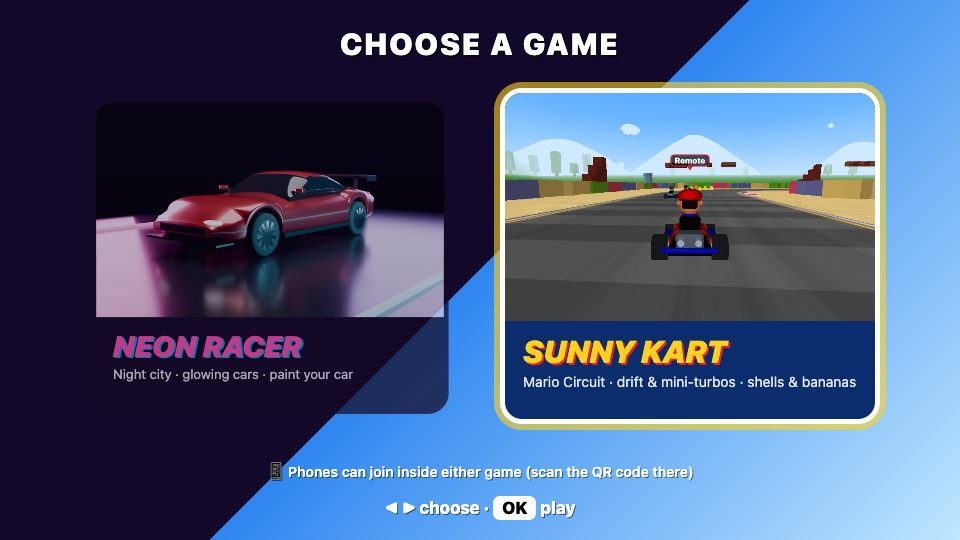
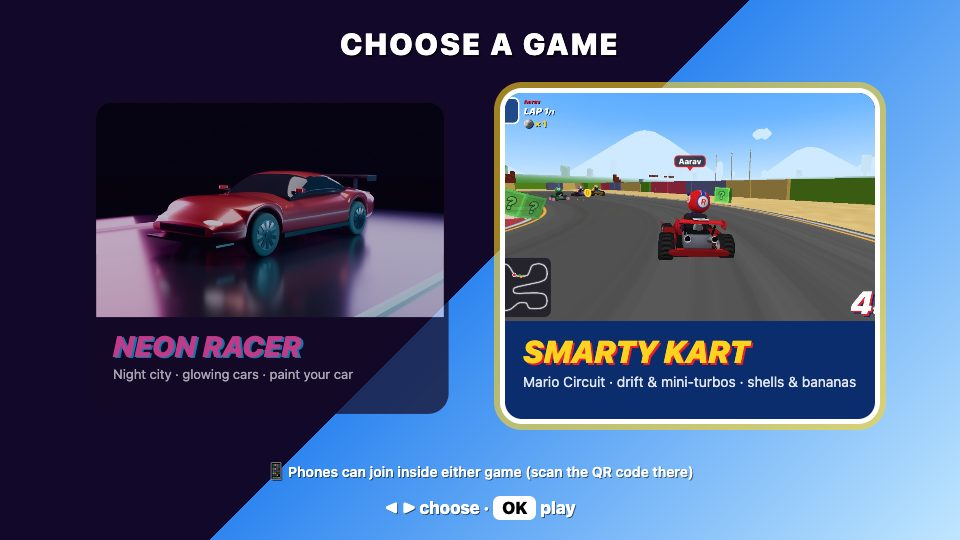
Rename Sunny Kart to Smarty Kart (titles, phone, docs, announcer line); /smarty alias; new start-screen art

diff --git a/public/js/controller.js b/public/js/controller.js
@@ -6,7 +6,7 @@ import { RACERS, RACER_IDS, BODIES, WHEELS, BODY_IDS, WHEEL_IDS, KPAINTS, saniti
 const $ = (id) => document.getElementById(id);
 const SLOT_PAINTS = ['#ff2d95', '#00b8ff', '#ffcc00', '#7dff2b'];
 const ITEM_ICONS = { rocket: '🚀', star: '⭐', magnet: '🧲', banana: '🍌', orb: '🟢', homing: '🔴', boost: '⚡', coins: '🪙', horn: '📯',
-  green: '🟢', red: '🔴', mushroom: '🍄', bullet: '🚀', coin: '🪙' };   // second row: Sunny Kart items
+  green: '🟢', red: '🔴', mushroom: '🍄', bullet: '🚀', coin: '🪙' };   // second row: Smarty Kart items
 const ITEM_NAMES = { rocket: 'ROCKET!', star: 'STAR POWER!', magnet: 'COIN MAGNET!', banana: 'BANANA!', orb: 'BOUNCY ORB!', homing: 'HOMING ORB!', boost: 'BOOST!', coins: '+3 COINS!', horn: 'HORN BLAST!',
   green: 'GREEN SHELL!', red: 'RED SHELL!', mushroom: 'MUSHROOM!', bullet: 'BULLET!', coin: '+2 COINS!' };
 const TIER_NAMES = ['', 'MINI-TURBO', 'SUPER TURBO', 'ULTRA TURBO'], TIER_COLORS = ['', '#4a8cff', '#ff8a1a', '#d24dff'];
@@ -22,13 +22,13 @@ try { savedCfg = JSON.parse(localStorage.getItem('nr_cfg') || 'null'); } catch {
 let cfg = sanitizeCfg(savedCfg || DEFAULT_CFG);
 // which game the TV is running ('neon' | 'sunny' | 'menu'); the TV says so in every state message
 let game = 'neon';
-// Sunny Kart kart: racer + body + wheels + colour (racer null until chosen or given by the TV)
+// Smarty Kart kart: racer + body + wheels + colour (racer null until chosen or given by the TV)
 let kart = (() => { try { return JSON.parse(localStorage.getItem('nr_kart') || 'null'); } catch { return null; } })();
 kart = kart ? sanitizeKart(kart) : null;
 if (!kart && RACERS[localStorage.getItem('nr_racer')]) kart = sanitizeKart({ racer: localStorage.getItem('nr_racer') });
 let stab = 'racer', kpreview = null;
 const saveKart = () => localStorage.setItem('nr_kart', JSON.stringify(kart));
-let others = [];   // racers other players have (Sunny Kart lobby)
+let others = [];   // racers other players have (Smarty Kart lobby)
 
 const input = { s: 0, g: 0, b: 0, n: 0, i: 0 };
 const held = { left: new Set(), right: new Set(), gas: new Set(), brake: new Set(), nitro: new Set(), item: new Set() };
@@ -278,7 +278,7 @@ function onHud(m) {
   $('hCoins').textContent = `🪙 ${m.coins}`;
   $('nfill').style.height = Math.round(m.nitro * 100) + '%';
   $('hItem').textContent = m.item === 'roll' ? '🎲' : (m.item ? ITEM_ICONS[m.item] + (m.n > 1 ? '×' + m.n : '') : '');
-  if (game !== 'sunny') {   // Sunny Kart has its own ITEM and DRIFT buttons
+  if (game !== 'sunny') {   // Smarty Kart has its own ITEM and DRIFT buttons
     // items fire by themselves ~0.8 s after they arrive (one at a time for ×3 items)
     if (m.item && m.item !== 'roll' && !m.fin && !autoItemT) autoItemT = setTimeout(() => { autoItemT = 0; autoPress('item', 0); }, 800);
     // boost fires by itself when the bar is full, and runs until it's empty
@@ -309,7 +309,7 @@ function saveCfg(send = true) {
   renderGarage();
   if (send) sendGarage();
 }
-// one garage message for both games: Neon Racer reads its car fields, Sunny Kart reads racer/body/wheels/kpaint
+// one garage message for both games: Neon Racer reads its car fields, Smarty Kart reads racer/body/wheels/kpaint
 function sendGarage() { sendRaw({ t: 'garage', cfg: { ...cfg, ...(kart || {}) } }); }
 function setKart(change) {
   kart = sanitizeKart({ ...(kart || { racer: 'ruby' }), ...change });
@@ -336,7 +336,7 @@ function setGame(g) {
   game = g;
   document.body.classList.toggle('sunny', g === 'sunny');
   document.body.classList.toggle('menu', g === 'menu');
-  document.title = g === 'sunny' ? 'Sunny Kart – Controller' : 'Neon Racer – Controller';
+  document.title = g === 'sunny' ? 'Smarty Kart – Controller' : 'Neon Racer – Controller';
   setItem(null); setThemeColor();
   if ($('garage').classList.contains('on')) showGarage(true);
 }

diff --git a/public/menu.html b/public/menu.html
@@ -4,7 +4,7 @@
 <meta charset="utf-8">
 <meta name="viewport" content="width=device-width, initial-scale=1">
 <title>Choose a game</title>
-<!-- TV start screen: pick Neon Racer or Sunny Kart with the remote (◀ ▶ OK) or from a connected phone.
+<!-- TV start screen: pick Neon Racer or Smarty Kart with the remote (◀ ▶ OK) or from a connected phone.
      Plain HTML/CSS (no WebGL), sized for the TV's 960×540 CSS viewport. It connects as the TV screen so phones
      stay connected and can pick too; going into a game hands the TV connection to that game's page. -->
 <style>
@@ -34,7 +34,7 @@
   <div class="title">CHOOSE A GAME</div>
   <div class="cards">
     <div class="card neon" data-game="neon"><div class="art"></div><div class="name">NEON RACER</div><div class="sub">Night city · glowing cars · paint your car</div></div>
-    <div class="card sunny" data-game="sunny"><div class="art"></div><div class="name">SUNNY KART</div><div class="sub">Mario Circuit · drift &amp; mini-turbos · shells &amp; bananas</div></div>
+    <div class="card sunny" data-game="sunny"><div class="art"></div><div class="name">SMARTY KART</div><div class="sub">Mario Circuit · drift &amp; mini-turbos · shells &amp; bananas</div></div>
   </div>
   <div class="phones" id="phones">📱 Phones can join inside either game (scan the QR code there)</div>
   <div class="hint">◀ ▶ choose · <span class="pill">OK</span> play</div>

diff --git a/public/sunny/game.js b/public/sunny/game.js
@@ -1,4 +1,4 @@
-// Sunny Kart, the TV screen. A Mario Kart-style racer built for the family TV (Mali-450, WebGL 1, slow ARM CPU).
+// Smarty Kart, the TV screen. A Mario Kart-style racer built for the family TV (Mali-450, WebGL 1, slow ARM CPU).
 // Engine parts (renderer, batching, projectiles, split screen, pause, HUD loop, phone protocol) are shared with Neon Racer;
 // the kart handling is ported from Mario Kart 3.js (speed eases to top speed, hop → drift with a ±1.4 steering bias,
 // 3 spark levels, the body swings out in a drift, sand slows you, walls bounce you back).
@@ -1315,7 +1315,7 @@ function connectWS() {
         if (p) { if (p.car) { p.car.human = false; p.car.player = null; } players.delete(m.id); if (phase === 'lobby') rebuildSoon(); refreshLobby(); }
         break;
       case 'in': if (p) p.input = { s: clamp(+m.s || 0, -1, 1), g: m.g ? 1 : 0, b: m.b ? 1 : 0, n: m.n ? 1 : 0, i: m.i ? 1 : 0 }; break;
-      case 'garage':   // phones send their Neon Racer car and their Sunny Kart racer together; only the racer matters here
+      case 'garage':   // phones send their Neon Racer car and their Smarty Kart racer together; only the racer matters here
         if (p && m.cfg && RACERS[m.cfg.racer]) {
           const k = sanitizeKart(m.cfg);
           const taken = k.racer !== p.cfg.racer && [...players.values()].some((q) => q !== p && q.cfg.racer === k.racer);

diff --git a/server/index.js b/server/index.js
@@ -1,4 +1,4 @@
-// Kid Racer server (Neon Racer + Sunny Kart): serves the TV and phone pages and relays messages over WebSocket.
+// Kid Racer server (Neon Racer + Smarty Kart): serves the TV and phone pages and relays messages over WebSocket.
 //
 // Runs two ways:
 //  * At home (npm start): plain http on PORT plus https on HTTPS_PORT with a self-signed certificate for this computer's
@@ -156,9 +156,9 @@ async function handler(req, res) {
     });
     return;
   }
-  if (p === '/') return send(req, res, path.join(PUBLIC, 'menu.html'));   // start screen: choose Neon Racer or Sunny Kart
+  if (p === '/') return send(req, res, path.join(PUBLIC, 'menu.html'));   // start screen: choose Neon Racer or Smarty Kart
   if (p === '/neon' || p === '/neon/') return send(req, res, path.join(PUBLIC, 'tv.html'));
-  if (p === '/sunny' || p === '/sunny/') return send(req, res, path.join(PUBLIC, 'sunny', 'index.html'));
+  if (p === '/sunny' || p === '/sunny/' || p === '/smarty' || p === '/smarty/') return send(req, res, path.join(PUBLIC, 'sunny', 'index.html'));
   if (p === '/play') return send(req, res, path.join(PUBLIC, 'controller.html'));
   if (p === '/info') {
     // join link + QR for a TV room; the QR carries the room (and the invite code, so phones join without typing it)

diff --git a/public/quiz/quiz.js b/public/quiz/quiz.js
@@ -1,4 +1,4 @@
-// After-race quiz, shared by Sunny Kart and Neon Racer (TV side).
+// After-race quiz, shared by Smarty Kart and Neon Racer (TV side).
 // Five general-knowledge questions (public/quiz/questions.json, from the owner's SKGKO Class 3 practice set), one each from five
 // different sections, answer order shuffled, no question repeats until all 100 have been asked (sections with unseen questions are preferred).
 // The answers are four giant item boxes on the track; each player's kart drives into the box they pick on their phone
@@ -274,7 +274,7 @@ export class Quiz {
   animate(dt, t) {
     const tr = this.o.track, S0 = this.S0, cam = this.o.camera;
     // camera: behind the karts, looking at the boxes
-    // framing tuned on Sunny Kart's wide road; narrower roads (Neon) pull the camera in so the boxes stay big
+    // framing tuned on Smarty Kart's wide road; narrower roads (Neon) pull the camera in so the boxes stay big
     const f = Math.max(0.55, Math.min(1, (3 * this.gap + this.size) / 16.9));
     const C0 = this.camCfg || (this.camCfg = { back: 2 + 9 * f, y: 2.4 + 2.8 * f, lookY: 2.0 + 0.6 * f, fov: 52 });
     const cp = tr.at(S0 - C0.back + Math.sin(t * 0.4) * 0.3, Math.sin(t * 0.3) * 0.5); cam.position.set(cp.x, C0.y, cp.z);

diff --git a/public/css/controller.css b/public/css/controller.css
@@ -141,7 +141,7 @@ body.fx-magnet #bar { box-shadow: 0 0 24px #40a0ff; }
 @keyframes rot { 0%, 30% { transform: rotate(0) } 60%, 100% { transform: rotate(-90deg) } }
 @media (orientation: portrait) { body.playing #rotate { display: flex; } }
 
-/* ---------------- Sunny Kart mode (the TV says game: 'sunny'); Neon Racer looks exactly as before */
+/* ---------------- Smarty Kart mode (the TV says game: 'sunny'); Neon Racer looks exactly as before */
 #sitem, #drift, #simg, #sracers, #scanvas, #stabs { display: none; }
 .btn small { position: absolute; bottom: 8px; left: 0; right: 0; text-align: center; font-size: 11px; font-weight: 800; letter-spacing: .5px; opacity: .85; }
 body.sunny { --bg: #0b2d6e; --panel: #12408f; --line: #2c5cb3; }
@@ -194,7 +194,7 @@ body.menu #menu { display: flex; }
 #menu .g:active { transform: scale(.97); }
 #menu .msub { font-size: 13px; opacity: .7; }
 
-/* Sunny Kart garage: live 3D preview + tabs (Racer / Kart / Wheels / Colour) */
+/* Smarty Kart garage: live 3D preview + tabs (Racer / Kart / Wheels / Colour) */
 body.sunny #scanvas { display: block; position: absolute; inset: 0; width: 100%; height: 100%; touch-action: none; }
 body.sunny .preview.pvready #simg { display: none; }
 body.sunny #stabs { display: flex; }

diff --git a/public/controller.html b/public/controller.html
@@ -52,7 +52,7 @@
     <div class="right">
       <div class="btn" id="gas"><span class="ico">▲</span>GO</div>
       <div class="btn" id="brake"><span class="ico">▼</span>REVERSE</div>
-      <!-- Sunny Kart only: ITEM (top left) and HOP / DRIFT (bottom left, next to GO) -->
+      <!-- Smarty Kart only: ITEM (top left) and HOP / DRIFT (bottom left, next to GO) -->
       <div class="btn" id="sitem"><span id="sitemIco">·</span><small>ITEM</small></div>
       <div class="btn" id="drift">HOP / DRIFT<small>hold through corners</small></div>
     </div>
@@ -118,7 +118,7 @@
     <div class="mt">Which game?</div>
     <div class="gs">
       <button class="g neon" data-game="neon">NEON RACER<small>Night city racing</small></button>
-      <button class="g sunny" data-game="sunny">SUNNY KART<small>Mario-style kart racing</small></button>
+      <button class="g sunny" data-game="sunny">SMARTY KART<small>Mario-style kart racing</small></button>
     </div>
     <div class="msub">You can also choose with the TV remote</div>
   </div>

diff --git a/public/sunny/index.html b/public/sunny/index.html
@@ -3,7 +3,7 @@
 <head>
 <meta charset="utf-8">
 <meta name="viewport" content="width=device-width, initial-scale=1">
-<title>Sunny Kart</title>
+<title>Smarty Kart</title>
 <link rel="stylesheet" href="/sunny/sunny.css">
 <script src="/js/boot.js"></script>
 <script src="/js/room.js"></script>
@@ -15,14 +15,14 @@
 <canvas id="gl"></canvas>
 
 <div id="loading" class="full">
-  <div class="logo">SUNNY KART</div>
+  <div class="logo">SMARTY KART</div>
   <div class="bar"><div id="loadfill"></div></div>
   <div id="loadtxt">Loading the circuit…</div>
 </div>
 
 <div id="lobby" class="full hidden">
   <div class="panel ui">
-    <div class="logo">SUNNY KART</div>
+    <div class="logo">SMARTY KART</div>
     <div class="tag">Scan the code, pick your racer and press START!</div>
     <div class="joinrow">
       <div id="qr"></div>

diff --git a/public/sunny/kartlook.js b/public/sunny/kartlook.js
@@ -1,4 +1,4 @@
-// Sunny Kart kart look (version 2), shared by the TV game, the phone preview and the kart lab page.
+// Smarty Kart kart look (version 2), shared by the TV game, the phone preview and the kart lab page.
 // Each kart is: body (Paint / Trim / Chrome sharing one baked texture), driver (baked texture), a steering wheel that turns,
 // two front wheels that steer and spin, and a rear wheel pair that spins. Materials are matcaps drawn in code (no lights;
 // cheap on the TV's Mali-450): glossy 'candy' paint with a bright rim, satin trim, sky-reflecting chrome, soft driver and

diff --git a/public/js/game.js b/public/js/game.js
@@ -1722,7 +1722,7 @@ function selfCheck() {
     dbgLog('error', 'load: ' + (e && e.stack ? e.stack : e));
     return;
   }
-  // after-race quiz (shared with Sunny Kart): the next race unlocks once every player has answered all five
+  // after-race quiz (shared with Smarty Kart): the next race unlocks once every player has answered all five
   quiz = new Quiz({
     THREE, scene, camera, track, theme: 'neon', s0: 30,
     players: () => [...players.values()].filter((p) => p.car && p.connected).map((p) => ({ id: p.id, name: p.name, color: p.cfg.paint, car: p.car })),

diff --git a/public/js/levels.js b/public/js/levels.js
@@ -1,4 +1,4 @@
-// Difficulty levels, shared by Sunny Kart, Neon Racer and the phone controller.
+// Difficulty levels, shared by Smarty Kart, Neon Racer and the phone controller.
 // One level per race, chosen in the lobby (TV remote ◀ ▶ or any phone) and remembered by the TV (localStorage kr_level).
 // Normal = how the games played before levels existed. Levels change the computer racers and how much the game helps
 // the kid; the kid's own kart handles the same on every level.

diff --git a/public/sunny/preview.js b/public/sunny/preview.js
@@ -1,4 +1,4 @@
-// Sunny Kart phone preview: a live 3D turntable of the kart you're building (racer + body + wheels + colour).
+// Smarty Kart phone preview: a live 3D turntable of the kart you're building (racer + body + wheels + colour).
 // Same parts and matcap shading as the TV. Drag to spin; renders only while visible.
 import * as THREE from 'three';
 import { GLTFLoader } from 'three/addons/loaders/GLTFLoader.js';
